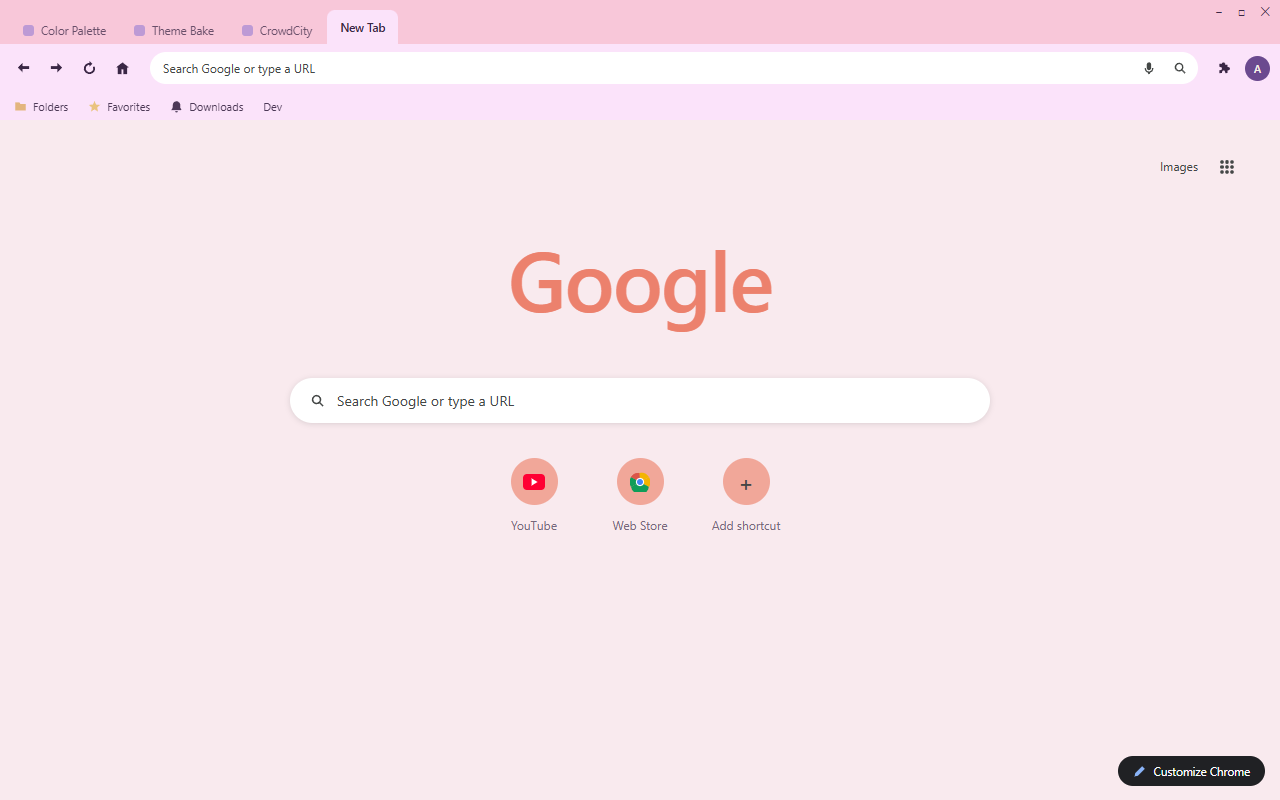
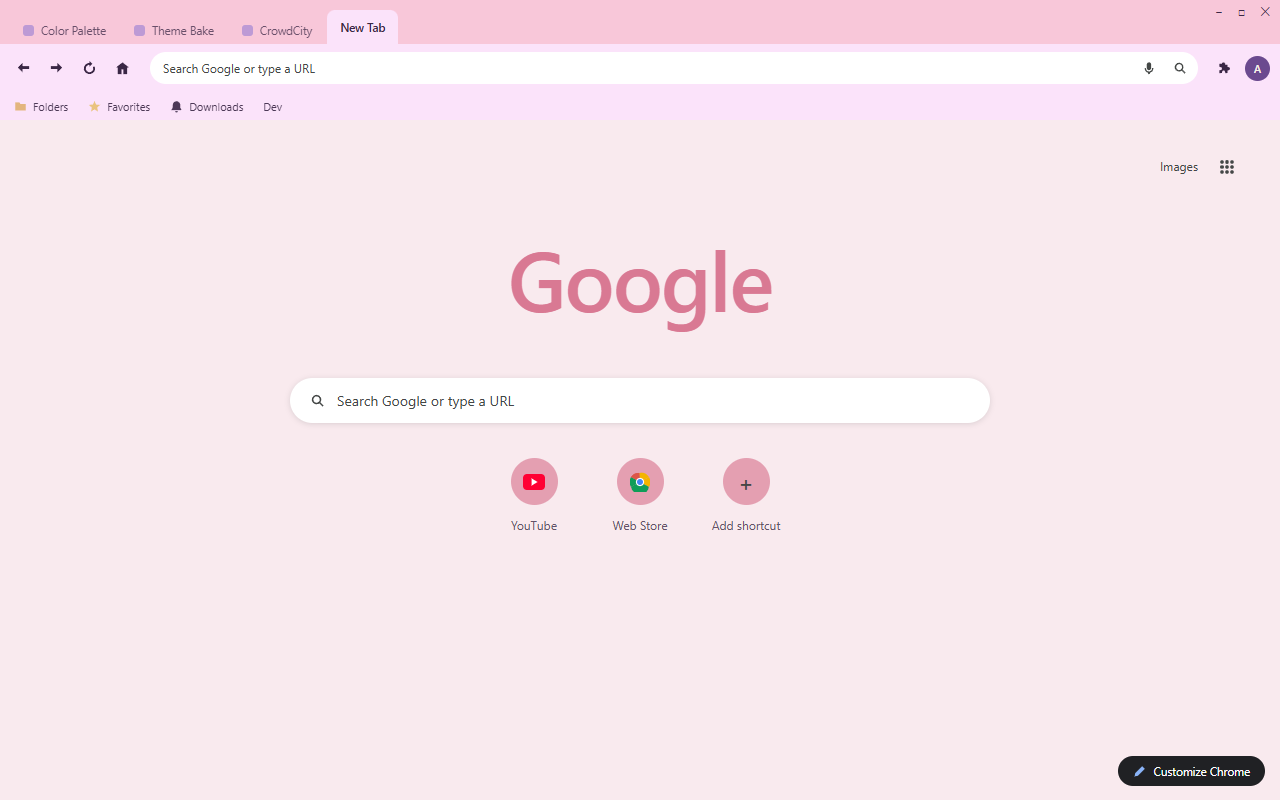
商店截图按偏粉版本重校准
- mockup 的浏览器自有元素改用偏粉版实机采样值：logo 玫瑰粉 #D97993、快捷圆圈 #E49FB1、快捷标签 #655369（原为珊瑚色 #EC816D/#F1A799/#78697C）
- README 截图引用升 ?v=2；重新打包 zip 覆盖

Changed region(s): [[0.375, 0.3125, 0.625, 0.4375]]

diff --git a/scripts/generate-screenshot-headless.py b/scripts/generate-screenshot-headless.py
@@ -9,9 +9,9 @@ hex calibrated from the user's real screenshot (1080x642).
 Calibrated against the real browser (2026-10-23):
   frame #F8C7D9 (manifest)   toolbar + bookmark bar #FBE3FA (manifest)
   NTP background #F9EAEE (manifest)   omnibox pill #FFFFFF (manifest, verified)
-  Google single-colour logo #EC816D (Chrome derives a coral here)
-  shortcut circle #F1A799   YouTube #FF0033   NTP links #444746
-  shortcut labels #78697C   Customize pill #202124
+  Google single-colour logo #D97993 (Chrome derives rose pink here)
+  shortcut circle #E49FB1   YouTube #FF0033   NTP links #444746
+  shortcut labels #655369   Customize pill #202124
 Geometry targets are the real screenshot's own proportions (% of window height):
   logo glyph 31.3-41.9% (19.8% wide)  ·  search pill 47.2-52.8% (54.5% wide)
   shortcut circles 57.2-63.1%  ·  customize bottom 98.0%
@@ -44,11 +44,11 @@ def colors():
         "ink":      rgb("ntp_text"),
         "tab_text": rgb("tab_text"),
         # calibrated browser-owned literals
-        "logo":     "#EC816D",
-        "circle":   "#F1A799",
+        "logo":     "#D97993",
+        "circle":   "#E49FB1",
         "yt":       "#FF0033",
         "label":    "#444746",
-        "sclabel":  "#78697C",
+        "sclabel":  "#655369",
         "custom":   "#202124",
         "chrome_ic": "#3A2745",
     }

diff --git a/README.md b/README.md
@@ -53,7 +53,7 @@ The source palette is a 70s-style pastel set — pale floss pink, orchid, periwi
 
 | Browser | Palette |
 |:-:|:-:|
-| <img src="https://raw.githubusercontent.com/vaxicy/hyacinth-punch-theme/main/store-assets/screenshots/en/screenshot-1-browser.png" width="420" alt="Hyacinth Punch New Tab"> | <img src="https://raw.githubusercontent.com/vaxicy/hyacinth-punch-theme/main/store-assets/screenshots/en/screenshot-2-palette.png" width="420" alt="Hyacinth Punch palette"> |
+| <img src="https://raw.githubusercontent.com/vaxicy/hyacinth-punch-theme/main/store-assets/screenshots/en/screenshot-1-browser.png?v=2" width="420" alt="Hyacinth Punch New Tab"> | <img src="https://raw.githubusercontent.com/vaxicy/hyacinth-punch-theme/main/store-assets/screenshots/en/screenshot-2-palette.png" width="420" alt="Hyacinth Punch palette"> |
 
 ## Installation
 
